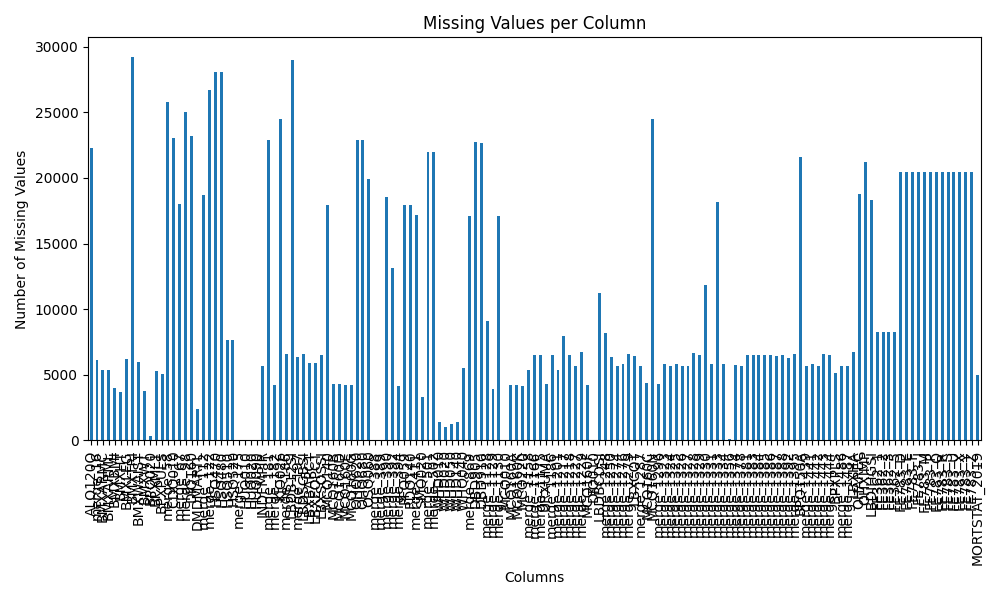
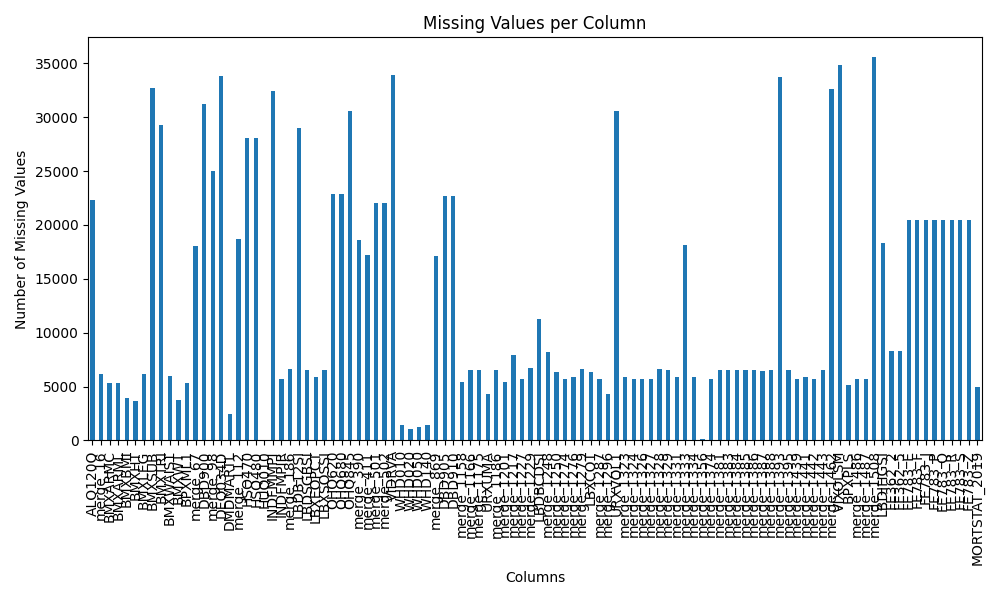
laaaaaaaaaaaaaa

diff --git a/Main.py b/Main.py
@@ -1,0 +1,39 @@
+import os
+import pandas as pd
+from pretraitement import Preview
+from model import Model
+
+# ─── Main ───────────────────────────────────────────────────────────────────────
+# Charger les données et le ground truth
+df_data = Preview.load_and_preview(Preview.file_data)
+df_truth = Preview.load_and_preview(Preview.file_ground_truth_train)
+
+# Fusionner pour avoir la cible dans le DataFrame
+df = df_data.merge(df_truth, on='SEQN', how='left')
+
+# Nettoyer
+df_clean, dropped_cols = Preview.clean(df, target_col='MORTSTAT_2019', nan_thresh=0.61, corr_thresh=0.95, var_thresh=0.01)
+
+# Sauvegarder
+df_clean.to_csv(os.path.join('data', 'data_clean.csv'), index=False)
+print(f"\nDonnées nettoyées sauvegardées")
+
+df_data_clean = Preview.load_and_preview(os.path.join('data', 'data_clean.csv'))
+Preview.analyze_missing_values(df_data_clean, 'data_clean')
+
+# ─── Main ────────────────────────────────────────────────────────────────────
+X_train, y_train, X_test, seqn_test = Model.load_data()
+
+model, X_val, y_val = Model.train(X_train, y_train)
+
+f1, best_threshold = Model.evaluate(model, X_val, y_val)
+
+feat_imp = Model.feature_importance(model, X_train, top_n=30)
+
+# Soumission avec seuil optimisé
+Model.predict_and_submit(
+    model, X_test, seqn_test,
+    group_id='4',       # ← Remplace par ton ID de groupe
+    submission_id='2',
+    threshold=best_threshold    # Utilise le seuil optimisé pour le F1
+)

diff --git a/pretraitement.py b/pretraitement.py
@@ -115,7 +115,7 @@ class Preview:
 
 
     @staticmethod
-    def clean(df, target_col=None, nan_thresh=0.50, corr_thresh=0.95, var_thresh=0.01):
+    def clean(df, target_col=None, nan_thresh=0.80, corr_thresh=0.95, var_thresh=0.01):
         """
         Nettoie le DataFrame :
         1. Sépare la cible si fournie
@@ -186,21 +186,3 @@ class Preview:
 
         return df_clean, to_drop
 
-
-# ─── Main ───────────────────────────────────────────────────────────────────────
-# Charger les données et le ground truth
-df_data = Preview.load_and_preview(Preview.file_data)
-df_truth = Preview.load_and_preview(Preview.file_ground_truth_train)
-
-# Fusionner pour avoir la cible dans le DataFrame
-df = df_data.merge(df_truth, on='SEQN', how='left')
-
-# Nettoyer
-df_clean, dropped_cols = Preview.clean(df, target_col='mortstat')
-
-# Sauvegarder
-df_clean.to_csv(os.path.join('data', 'data_clean.csv'), index=False)
-print(f"\nDonnées nettoyées sauvegardées")
-
-df_data_clean = Preview.load_and_preview(os.path.join('data', 'data_clean.csv'))
-Preview.analyze_missing_values(df_data_clean, 'data_clean')

diff --git a/model.py b/model.py
@@ -144,19 +144,3 @@ class Model:
         return submission
 
 
-# ─── Main ────────────────────────────────────────────────────────────────────
-X_train, y_train, X_test, seqn_test = Model.load_data()
-
-model, X_val, y_val = Model.train(X_train, y_train)
-
-f1, best_threshold = Model.evaluate(model, X_val, y_val)
-
-feat_imp = Model.feature_importance(model, X_train, top_n=30)
-
-# Soumission avec seuil optimisé
-Model.predict_and_submit(
-    model, X_test, seqn_test,
-    group_id='mongroupe',       # ← Remplace par ton ID de groupe
-    submission_id='1',
-    threshold=best_threshold    # Utilise le seuil optimisé pour le F1
-)
